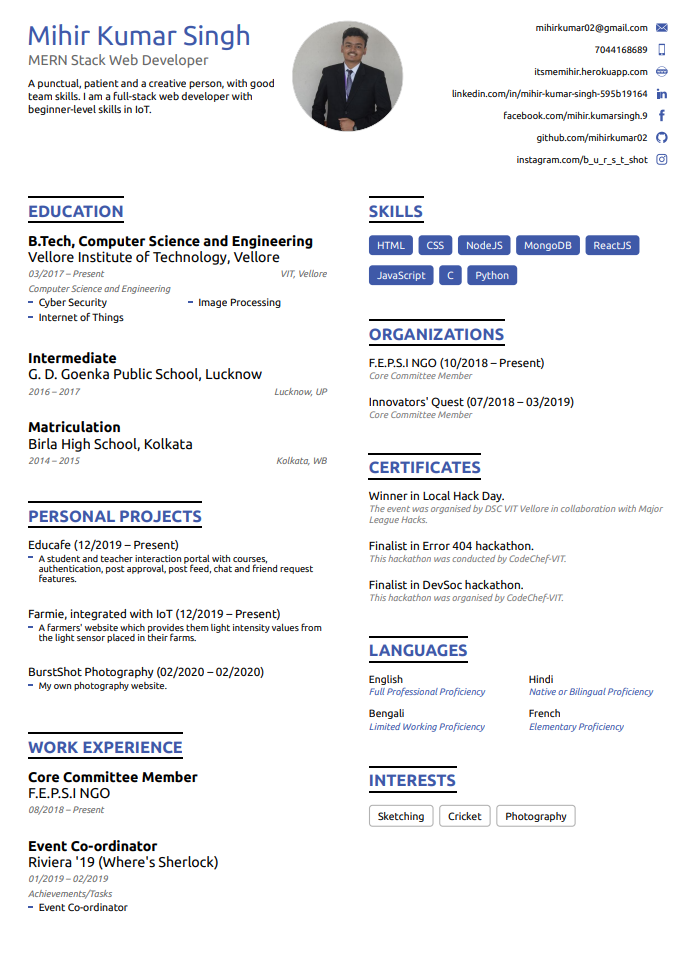
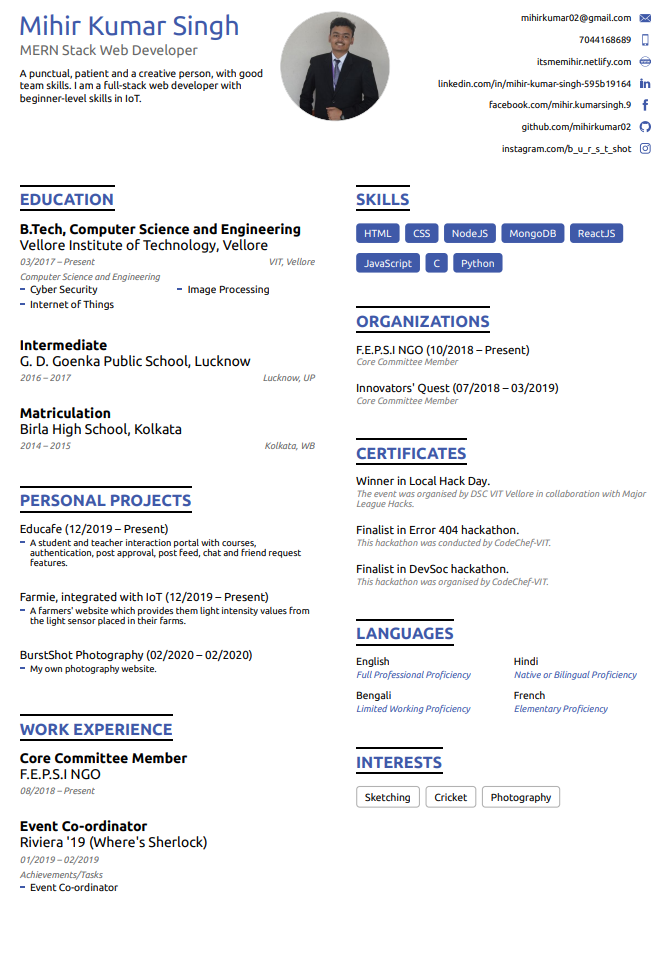
Added responsiveness to remaining components

diff --git a/src/components/Tech.js b/src/components/Tech.js
@@ -17,38 +17,38 @@ const Tech = () => {
                 <h1><b>Tech Stack</b></h1>
             </div>
             <div className="row centered tech">
-                <div className="col-md-3 col-sm-12 offset-md-1">
+                <div className="col-md-3 col-sm-12 offset-md-1 imagecenter">
                     <img src={mongodb} alt="MongoDB" title="MongoDB"/>
                 </div>
-                <div className="col-md-3 col-sm-12">
+                <div className="col-md-3 col-sm-12 imagecenter">
                     <img src={expressjs} alt="ExpressJS" title="Express JS"/>
                 </div>
-                <div className="col-md-3 col-sm-12">
+                <div className="col-md-3 col-sm-12 imagecenter">
                     <img src={reactjs} alt="ReactJS" title="React JS"/>
                 </div>
-                <div className="col-md-2 col-sm-12">
+                <div className="col-md-2 col-sm-12 imagecenter">
                     <img src={nodejs} alt="NodeJS" title="Node JS"/>
                 </div>
             </div>
             <div className="row centered tech">
-                <div className="col-md-3 col-sm-12 offset-md-1">
+                <div className="col-md-3 col-sm-12 offset-md-1 imagecenter">
                     <img src={html5} alt="HTML5" title="HTML 5"/>
                 </div>
-                <div className="col-md-3 col-sm-12">
+                <div className="col-md-3 col-sm-12 imagecenter">
                     <img src={css} alt="CSS3" title="CSS 3"/>  
                 </div>
-                <div className="col-md-3 col-sm-12">
+                <div className="col-md-3 col-sm-12 imagecenter">
                     <img src={js} alt="JavaScript" title="JavaScript"/>
                 </div>
-                <div className="col-md-2 col-sm-12">
+                <div className="col-md-2 col-sm-12 imagecenter">
                     <img src={jquery} alt="JQuery" title="jQuery"/>
                 </div>
             </div>
             <div className="row centered tech">
-                <div className="col-md-6 col-sm-12 lowertech">
+                <div className="col-md-6 col-sm-12 lowertech imagecenter">
                     <img src={bootstrap} alt="Bootstrap" title="Bootstrap"/>
                 </div>
-                <div className="col-md-6 col-sm-12 lowertech">
+                <div className="col-md-6 col-sm-12 lowertech imagecenter">
                     <img src={passport} alt="Passport JS" title="Passport JS"/>
                 </div>
             </div>

diff --git a/src/index.css b/src/index.css
@@ -54,7 +54,7 @@ textarea{
   overflow: hidden;
   font-size: 25px;
   top: 0;
-  background-color: #0B132B;
+  background-color: #0a1430;
   box-shadow: 0 0 10px 5px black;
   position: fixed;
   z-index: 99;
@@ -456,17 +456,17 @@ textarea{
   align-items: center;
   padding: 10px;
   width: 250px;
-  margin: 0 10px;
+  margin: 0 15px;
   border-radius: 5px;
   text-align: center;
   overflow: hidden;
   transition: 0.2s;
-  box-shadow: 0 3px 5px -2px black;
+  animation: bounce 0.5s alternate infinite;
 }
 
 .card:hover{
-  transform: translateY(-10px);
-  box-shadow: 0 8px 10px -2px black;
+  box-shadow: none;
+  animation: bouncestop;
 }
 
 .card h3{
@@ -479,7 +479,6 @@ textarea{
   height: 150px;
   border-radius: 50%;
   box-sizing: inset 0 0 50px black;
-  z-index: 1000;
 }
 
 .percent .number{
@@ -512,7 +511,6 @@ textarea{
 svg{
   width: 150px;
   height: 150px;
-  z-index: 1000;
 }
 
 svg circle{
@@ -554,8 +552,8 @@ svg circle:nth-child(2){
   margin-bottom: 10px;
 }
 
-.resumeright{
-  text-align: right;
+.resumecenter{
+  text-align: center;
 }
 
 .resume{
@@ -677,6 +675,24 @@ svg circle:nth-child(2){
   margin-bottom: 10px;
 }
 
+.card-row{
+  column-count: 2;
+  margin: 20px auto;
+  display: flex;
+  align-items: center;
+  justify-content: center;
+}
+
+.columncard{
+  width: 25%;
+  margin: 10px;
+}
+
+.box{
+  text-align: center;
+}
+
+
 @keyframes bordered{
   from{
     width: 0%;
@@ -684,6 +700,28 @@ svg circle:nth-child(2){
 
   to{
     width: 50%;
+  }
+}
+
+@keyframes bounce{
+  from{
+    box-shadow: 0 3px 5px -2px black;
+  } 
+
+  to{
+    transform: translateY(-3px);
+    box-shadow: 0 8px 10px -2px black;
+  }
+}
+
+@keyframes bouncestop{
+  from{
+    box-shadow: 0 3px 5px -2px black;
+  } 
+
+  to{
+    
+    box-shadow: 0 3px 5px -2px black;
   }
 }
 
@@ -740,7 +778,7 @@ svg circle:nth-child(2){
     margin: 0;
   }
 
-  .menu li:nth-child(1){
+  .menu li{
     border-top: 1px solid #f07f52;
   }
 
@@ -797,6 +835,15 @@ svg circle:nth-child(2){
     margin: 0 2px;
     height: 30px;
     width: 30px;
+  }
+
+  .card h3{
+    font-size: 12px;
+  }
+
+  .toolcenter{
+    margin-top: 10px;
+    margin-bottom: 20px;
   }
 }
 

diff --git a/src/components/Proficiency.js b/src/components/Proficiency.js
@@ -6,8 +6,8 @@ const Proficiency = () => {
             <div className="heading-tools">
                 <h1><b>Proficiency</b></h1>
             </div>
-            <div className="row centered tech">
-                <div className="col-md-3 col-sm-12 card">
+            <div className="card-row tech">
+                <div className="columncard card">
                     <div className="box">
                         <div className="percent">
                             <svg>
@@ -21,7 +21,7 @@ const Proficiency = () => {
                         <h3>MongoDB</h3>
                     </div>
                 </div>
-                <div className="col-md-3 col-sm-12 card">
+                <div className="columncard card">
                     <div className="box">
                         <div className="percent">
                             <svg>
@@ -35,7 +35,9 @@ const Proficiency = () => {
                         <h3>Express JS</h3>
                     </div>
                 </div>
-                <div className="col-md-3 col-sm-12 card">
+            </div>
+            <div className="card-row tech">
+                <div className="columncard card">
                     <div className="box">
                         <div className="percent">
                             <svg>
@@ -49,7 +51,7 @@ const Proficiency = () => {
                         <h3>React JS</h3>
                     </div>
                 </div>
-                <div className="col-md-3 col-sm-12 card">
+                <div className="columncard card">
                     <div className="box">
                         <div className="percent">
                             <svg>

diff --git a/src/components/Resume.js b/src/components/Resume.js
@@ -9,8 +9,8 @@ const Resume = () => {
                 <div className="heading-projects">
                     <h1><b>My Resume</b></h1>
                 </div>
-                <div className="row centered resumeright">
-                    <div className="col-md-4 col-sm-12">
+                <div className="row centered">
+                    <div className="col-md-4 col-sm-12 resumecenter">
                         <Link to="/myResume.pdf" target="_blank" download>
                             <img className="resume" src={resume} alt="My Resume" />
                         </Link>
